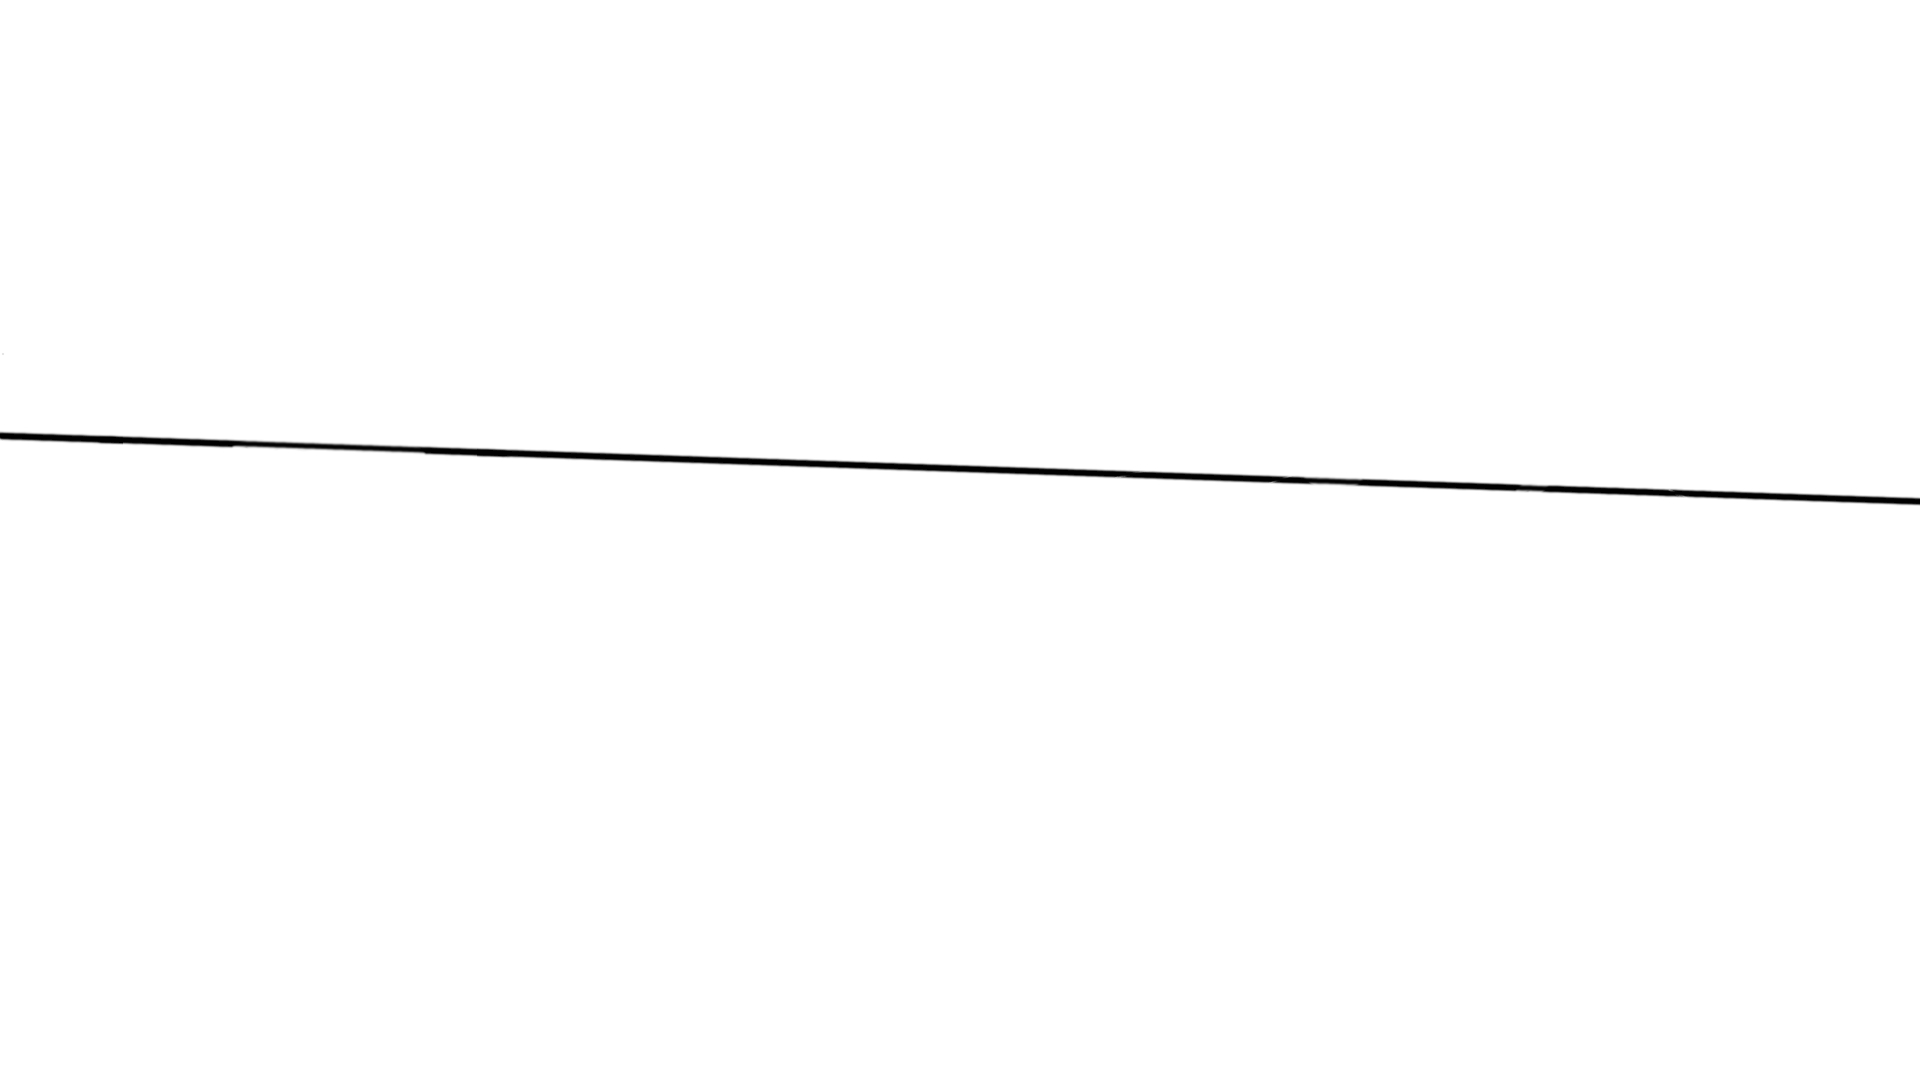
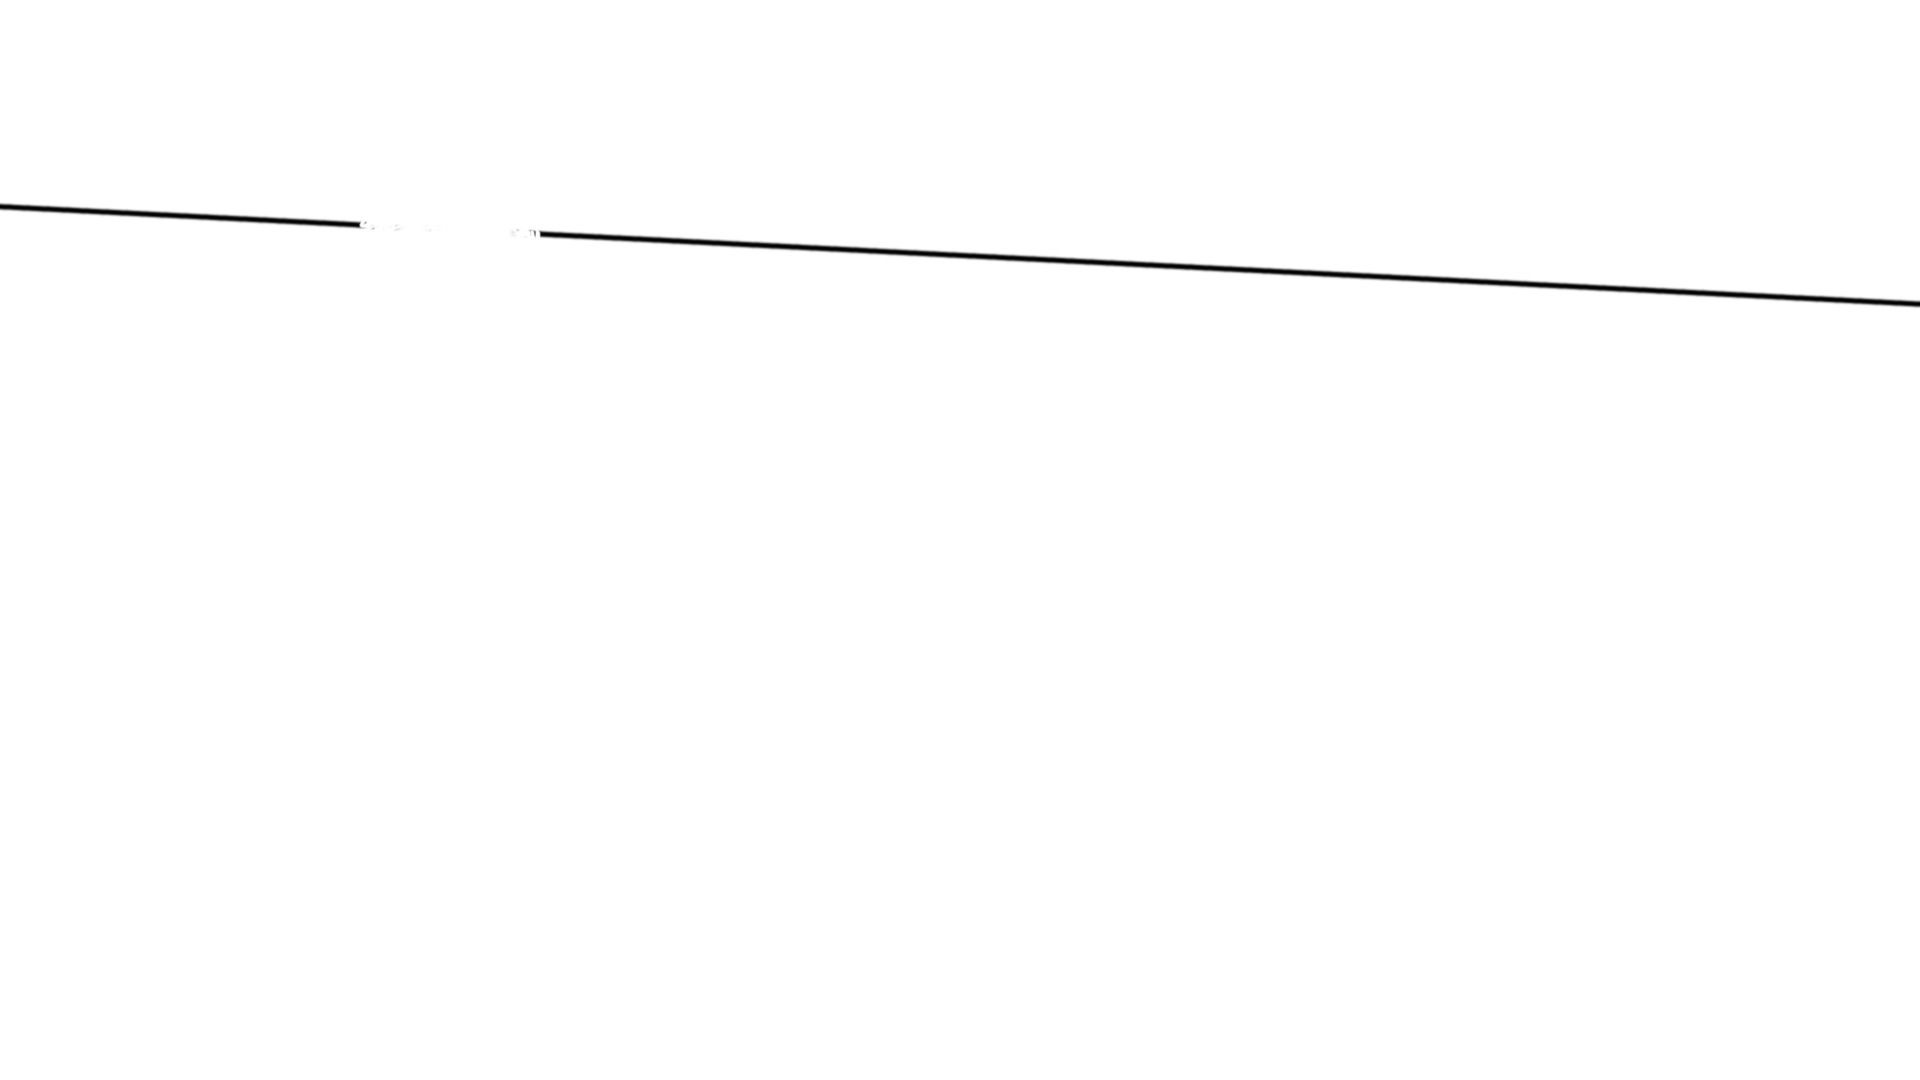
Update title and snowman screens.

diff --git a/core/src/com/room/game/stage1/SnowmanScreen.kt b/core/src/com/room/game/stage1/SnowmanScreen.kt
@@ -10,7 +10,7 @@ class SnowmanScreen(
         rightScreen: Screen?,
         downScreen: Screen?,
         uiHandler: StageUiHandler,
-        screenObjects: MutableList<ScreenItem> = mutableListOf(Background, BlohajItem, SnowmanItem, KeyItem)
+        screenObjects: MutableList<ScreenItem> = mutableListOf(Background, BlohajItem, BalanceboardItem, SnowmanItem, KeyItem)
 ) : Screen(leftScreen, rightScreen, downScreen, screenObjects, uiHandler) {
 
     object Background : ScreenItem(
@@ -24,8 +24,8 @@ class SnowmanScreen(
 
     object KeyItem : ScreenItem(
             drawable = Drawable("snowman_screen_key.png"),
-            x = 800f,
-            y = 430f,
+            x = 792f,
+            y = 500f,
             width = 72f,
             height = 86f,
             event = Event.KEY_FROM_SNOWMAN_CLICKED
@@ -33,20 +33,29 @@ class SnowmanScreen(
 
     object BlohajItem : ScreenItem(
             drawable = Drawable("snowman_screen_blohaj.png"),
-            x = 110f,
-            y = 100f,
-            width = 612f,
-            height = 636f,
+            x = 175f,
+            y = 390f,
+            width = 594f,
+            height = 618f,
             event = Event.BLOHAJ_CLICKED
     )
 
     object SnowmanItem : ScreenItem(
             drawable = Drawable("snowman_screen_snowman.png"),
             x = 800f,
-            y = 40f,
-            width = 1050f,
-            height = 828f,
+            y = 100f,
+            width = 1003f,
+            height = 800f,
             event = Event.SNOWMAN_CLICKED
+    )
+
+    object BalanceboardItem : ScreenItem(
+            drawable = Drawable("snowman_screen_balanceboard.png"),
+            x = 180f,
+            y = 60f,
+            width = 719f,
+            height = 347f,
+            event = Event.BALANCEBOARD_CLICKED
     )
 
     companion object {

diff --git a/core/src/com/room/game/stage1/Stage1.kt b/core/src/com/room/game/stage1/Stage1.kt
@@ -250,6 +250,10 @@ class Stage1(private val stageUiHandler: StageUiHandler) : Stage, EventHandler.L
                 showTemporaryText("That is obviously a snowman")
             }
 
+            Event.BALANCEBOARD_CLICKED -> {
+                showTemporaryText("Stable as our builds")
+            }
+
             // WhiteBoardScreen
 
             Event.LEFT_SCREW_CLICKED -> {
@@ -350,16 +354,16 @@ class Stage1(private val stageUiHandler: StageUiHandler) : Stage, EventHandler.L
 
     object LeftArrowItem : ScreenItem(
             drawable = Drawable("arrow_left.png"),
-            x = 50f,
-            y = 230f,
+            x = 30f,
+            y = 120f,
             width = 80f,
             height = 80f,
             event = Event.LEFT_ARROW_CLICKED)
 
     object RightArrowItem : ScreenItem(
             drawable = Drawable("arrow_right.png"),
-            x = 1830f,
-            y = 230f,
+            x = 1810f,
+            y = 120f,
             width = 80f,
             height = 80f,
             event = Event.RIGHT_ARROW_CLICKED
@@ -368,7 +372,7 @@ class Stage1(private val stageUiHandler: StageUiHandler) : Stage, EventHandler.L
     object DownArrowItem : ScreenItem(
             drawable = Drawable("arrow_down.png"),
             x = 920f,
-            y = 30f,
+            y = 20f,
             width = 80f,
             height = 80f,
             event = Event.DOWN_ARROW_CLICKED

diff --git a/core/src/com/room/game/stage1/TitleScreen.kt b/core/src/com/room/game/stage1/TitleScreen.kt
@@ -23,11 +23,11 @@ class TitleScreen(
     )
 
     object StartGameItem : ScreenItem(
-            drawable = Drawable("title_screen_start.jpg"),
-            x = 1300f,
-            y = 50f,
-            width = 439f,
-            height = 148f,
+            drawable = Drawable("start.jpg"),
+            x = 1340f,
+            y = 70f,
+            width = 442f,
+            height = 111f,
             event = Event.START_GAME
     )
 }

diff --git a/core/src/com/room/game/stage1/Event.kt b/core/src/com/room/game/stage1/Event.kt
@@ -36,6 +36,7 @@ enum class Event {
     BLOHAJ_CLICKED,
     KEY_FROM_SNOWMAN_CLICKED,
     SNOWMAN_CLICKED,
+    BALANCEBOARD_CLICKED,
 
     // Locker screen
 
